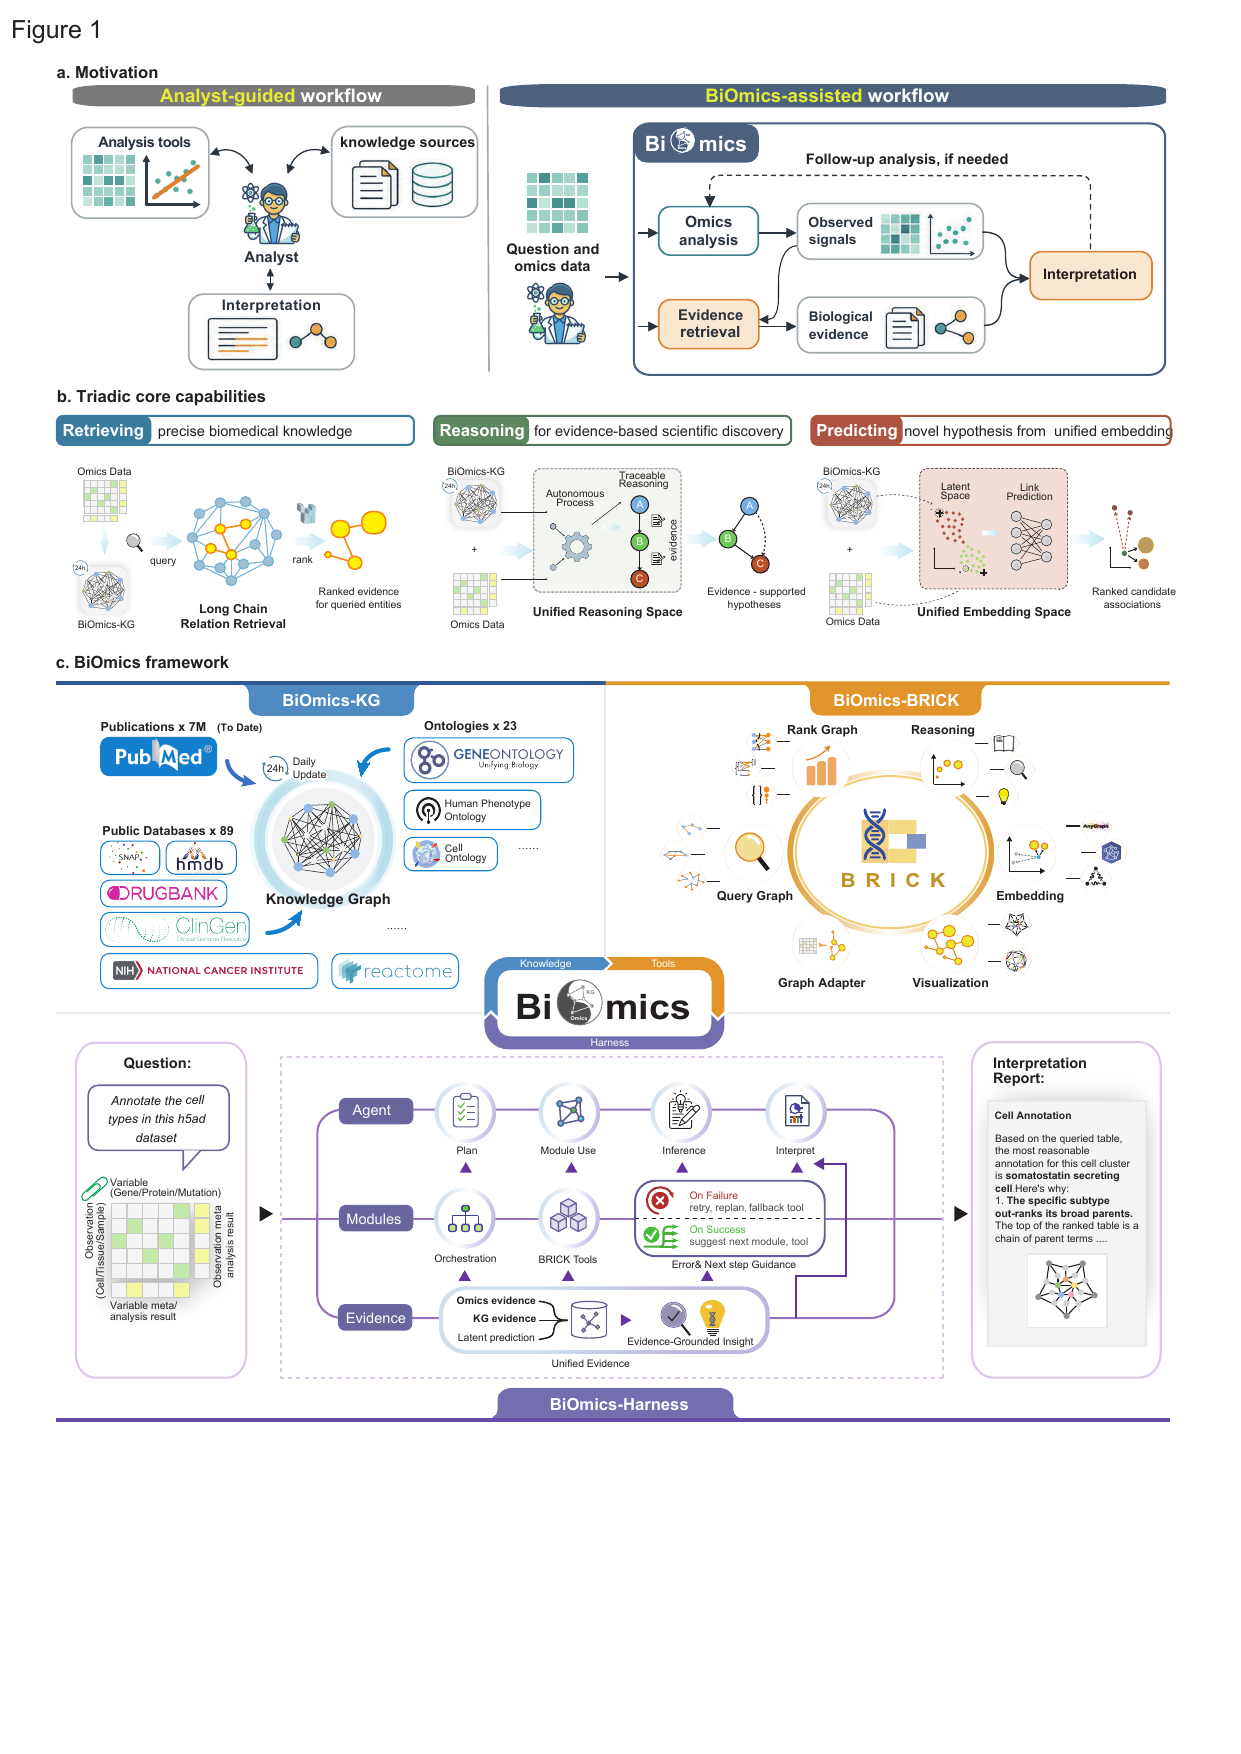
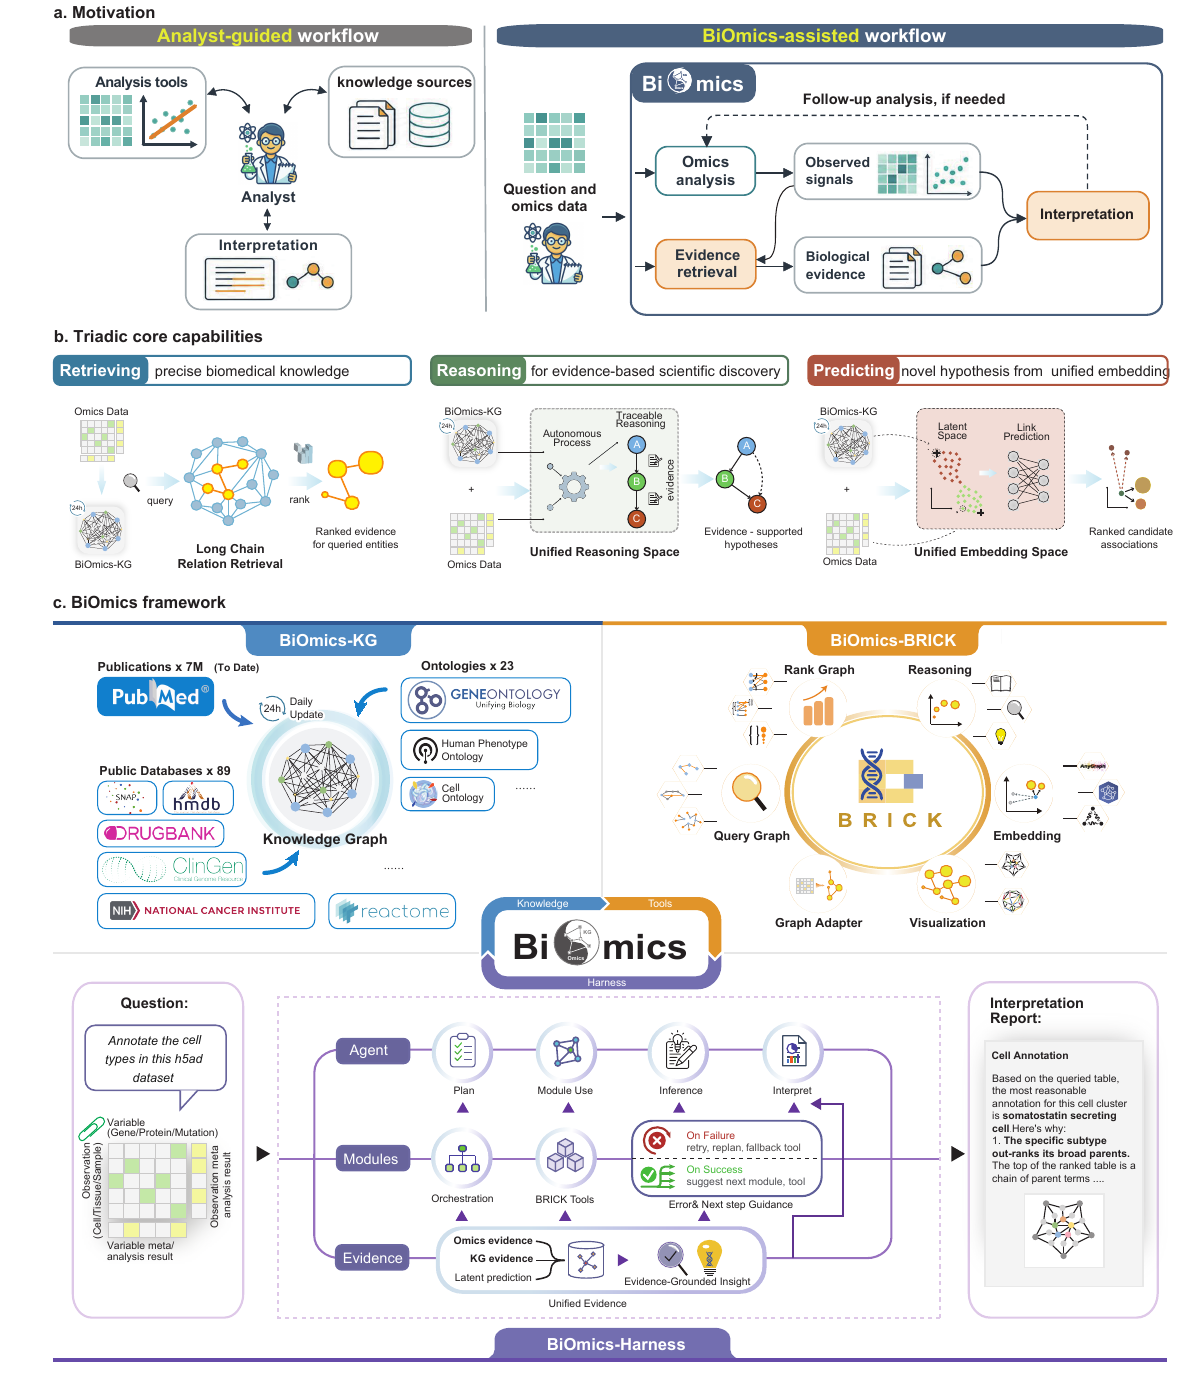
Refine homepage visuals and remove retired API links

Changed region(s): [[0.0, 0.0, 0.9883, 0.9921], [0.8957, 0.527, 0.9574, 0.589]]

diff --git a/BiOmics/scripts/querygraph.py b/BiOmics/scripts/querygraph.py
@@ -31,8 +31,8 @@ except Exception:  # pragma: no cover - keeps qr usable if policy module is unav
     resolve_relation_aliases = None
     select_kg_policy = None
 
-# brick KG API configuration.
-API_BASE_URL = os.getenv("BRICK_API_BASE_URL", "https://biomics.dcs.cloud/api")
+# brick KG API configuration. Set BRICK_API_BASE_URL to the active API root.
+API_BASE_URL = os.getenv("BRICK_API_BASE_URL", "").rstrip("/")
 API_TIMEOUT = float(os.getenv("BRICK_API_TIMEOUT", "120"))
 _TRUST_ENV_PROXY_VALUE = os.getenv(
     "BRICK_TRUST_ENV_PROXY",
@@ -48,7 +48,11 @@ MAX_MULTI_HOP = 3
 
 
 def _post_api(url: str, payload: dict) -> requests.Response:
-    """POST to the brick API without inheriting local proxy env by default."""
+    """POST to the configured brick API without inheriting local proxies by default."""
+    if not API_BASE_URL:
+        raise RuntimeError(
+            "BRICK_API_BASE_URL is not set. Configure the active KG API endpoint before querying."
+        )
     session = requests.Session()
     session.trust_env = API_TRUST_ENV_PROXY
     return session.post(url, json=payload, timeout=API_TIMEOUT)

diff --git a/BiOmics/tests/test_kg_policy.py b/BiOmics/tests/test_kg_policy.py
@@ -265,7 +265,7 @@ def test_querygraph_dry_run_shows_fallback_stage_plan_for_hard_target():
     ]
 
 
-def test_querygraph_api_payload_uses_live_info_source_key(monkeypatch):
+def test_querygraph_api_payload_uses_relation_info_source_key(monkeypatch):
     import querygraph
 
     captured = {}
@@ -290,8 +290,8 @@ def test_querygraph_api_payload_uses_live_info_source_key(monkeypatch):
         relation_info_source=["DrugBank"],
         limit_number=1,
     )
-    assert captured["info_source"] == ["DrugBank"]
-    assert "relation_info_source" not in captured
+    assert captured["relation_info_source"] == ["DrugBank"]
+    assert "info_source" not in captured
 
 
 def test_query_relation_drops_associated_with_before_api(monkeypatch):

diff --git a/README.md b/README.md
@@ -7,10 +7,6 @@
 
 BiOmics is a bio-reasoning framework that combines a continuously updated biomedical knowledge graph, a modular computational tool layer, and an agent-based orchestration framework. It supports knowledge retrieval, evidence-grounded interpretation, graph representation learning, and association prediction across multi-omics tasks.
 
-- **Web interface:** <https://biomics.dcs.cloud>
-- **Agent skill and complete guide:** [`BiOmics/SKILL.md`](BiOmics/SKILL.md)
-- **Execution records and associated artifacts:** <https://zenodo.org/records/23800307>
-
 ![BiOmics overview](assets/figure1_overview.png)
 
 ## What BiOmics does
@@ -37,10 +33,10 @@ Applications include cell-type annotation and subtype refinement, differential-e
 
 ```text
 BiOmics/
-├── SKILL.md              # Complete agent and BRICK usage guide
+├── SKILL.md              # Complete BiOmics agent usage guide
 ├── references/           # Task-specific workflows and KG source guidance
 ├── configs/              # Example task and query policies
-├── scripts/              # Installable BRICK CLI implementation
+├── scripts/              # Installable BiOmics-BRICK CLI implementation
 └── tests/                # Unit and integration tests
 
 assets/                   # Figures used by this homepage
@@ -48,7 +44,7 @@ LICENSE                   # MIT License
 README.md                 # This document
 ```
 
-The main BRICK commands are:
+The main commands provided by BiOmics are:
 
 | Command | Function | Typical use |
 |---|---|---|
@@ -59,7 +55,7 @@ The main BRICK commands are:
 | `brick emb` | Graph embedding | Build unified embeddings with PCA/UMAP or optional GRACE |
 | `brick pl` | Plot | Static/interactive networks, radial association plots, and TF-regulon plots |
 | `brick plan` / `brick workflow` | Orchestration | Materialize inspectable plans and editable task scaffolds |
-| `brick agent` | Checked execution | Validate plans, execute safe BRICK commands, check artifacts, and report failures |
+| `brick agent` | Checked execution | Validate plans, execute safe BiOmics commands, check artifacts, and report failures |
 
 A typical workflow is:
 
@@ -69,7 +65,7 @@ brick qr → brick rk / brick reason → brick ga / brick emb → brick pl
 
 ## Quick start
 
-### Install BRICK in a local environment
+### Install BiOmics in a local environment
 
 **Linux / macOS**
 
@@ -133,7 +129,7 @@ pip install scanpy   # optional; required for h5ad and single-cell workflows
 Requirements and notes:
 
 - Python ≥ 3.9
-- Network access for `brick qr`; the default API is `https://biomics.dcs.cloud/api`
+- Network access for `brick qr`; set `BRICK_API_BASE_URL` to your configured KG API endpoint before querying. No default endpoint is assumed.
 - Optional [Graphviz](https://graphviz.org/download/) for graph export
 - Activate the environment or open a new terminal if `brick` is not found
 
@@ -250,9 +246,9 @@ Inspect the loss curve, verify that embeddings and distances are finite, compare
 
 Outputs include the learned representations, `X_umap`, the integrated adjacency matrix, cell-by-KG distances, and training metadata. See [`references/grace_embedding.md`](BiOmics/references/grace_embedding.md) for details.
 
-## Extend BRICK on demand
+## Extend BiOmics on demand
 
-When the available bricks and their compositions cannot perform a required analysis, the host agent may extend the local BRICK source code with task-specific methods, adapters, validators, or visualizations. Keep changes scoped, register any new CLI command, preserve inputs and outputs, and validate the extension before using its results.
+When the available bricks and their compositions cannot perform a required analysis, the host agent may extend the local BiOmics source code with task-specific methods, adapters, validators, or visualizations. Keep changes scoped, register any new CLI command, preserve inputs and outputs, and validate the extension before using its results.
 
 Refresh the editable installation when needed:
 
